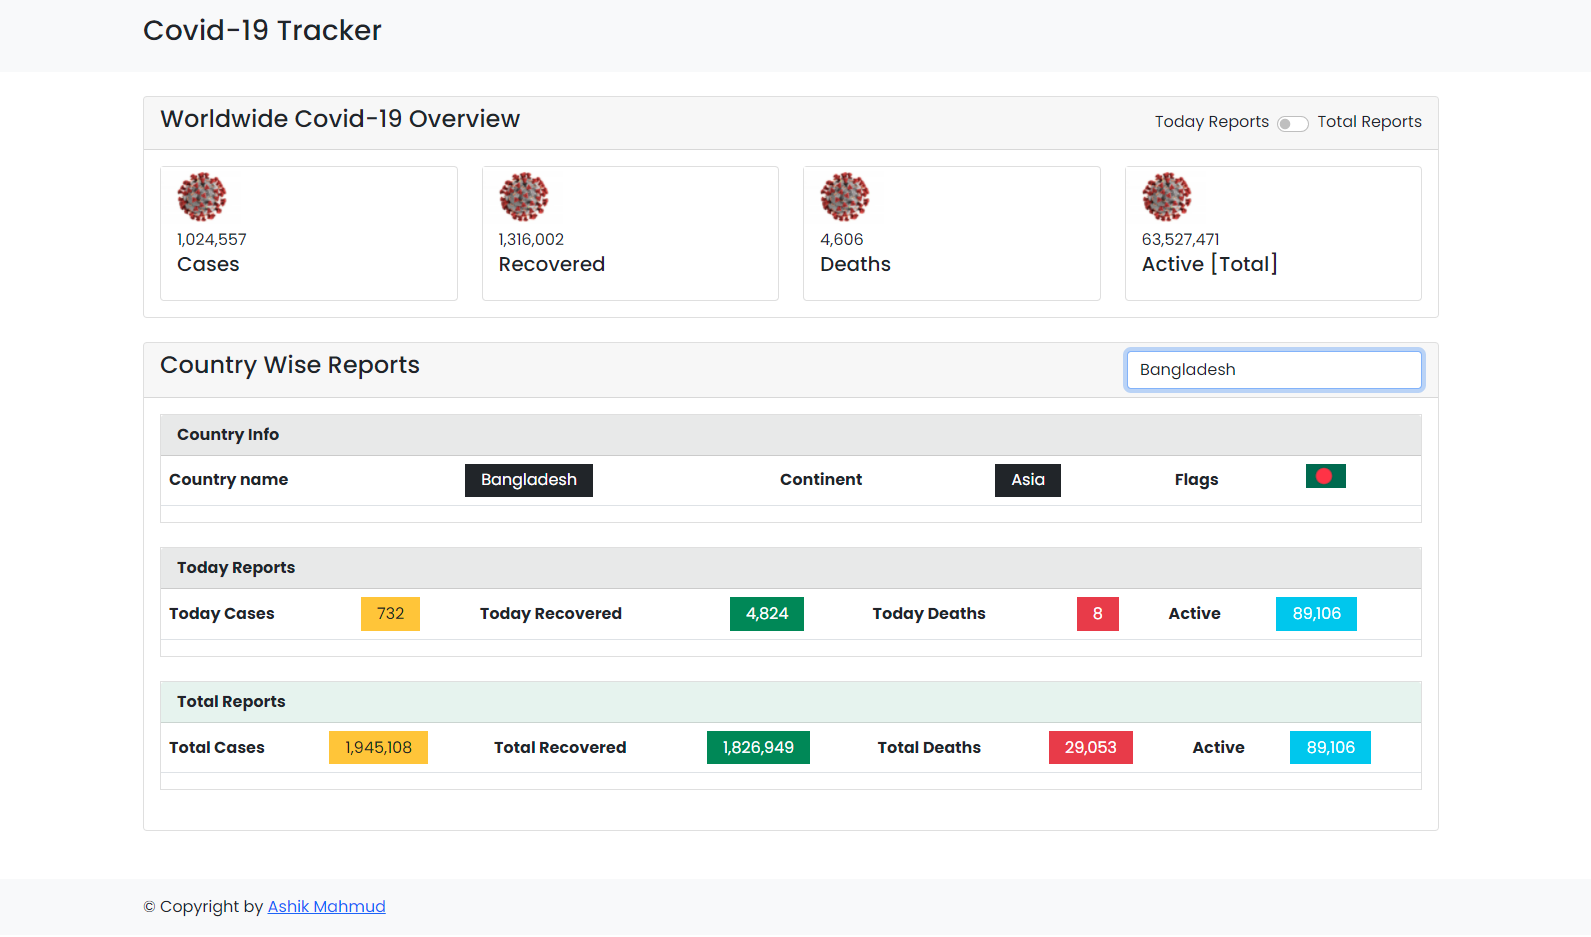
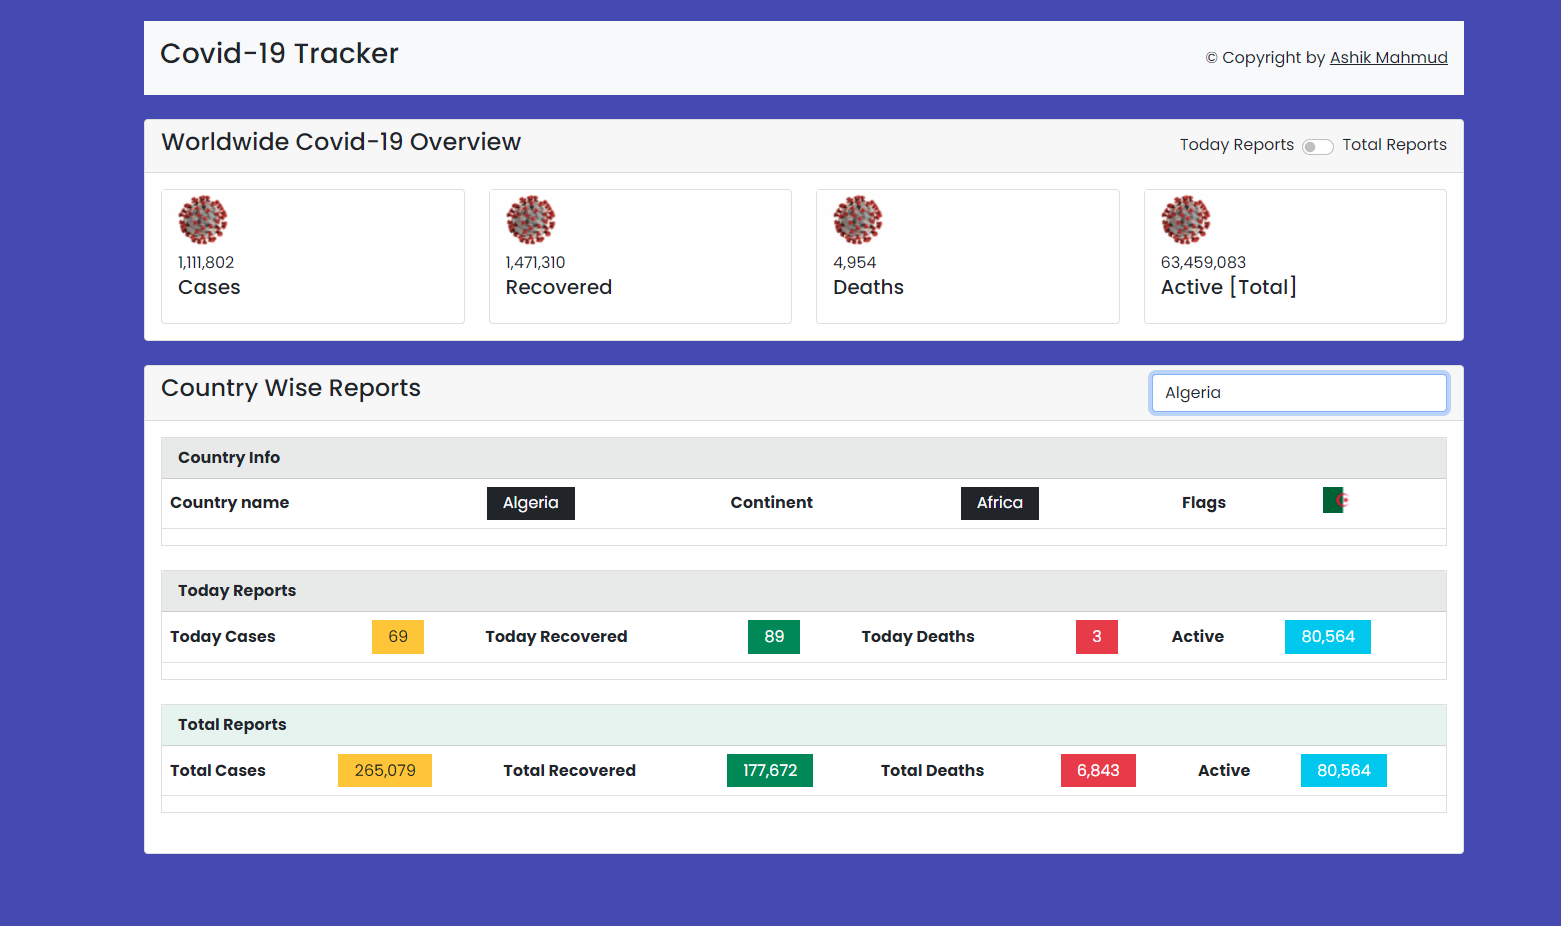
changes UI & demo preview as well

diff --git a/index.html b/index.html
@@ -18,9 +18,10 @@
 <body>
 
     <!-- header part start here  -->
-    <header id="header" class="bg-light p-3">
-        <div class="container">
+    <header id="header" class="mt-4">
+        <div class="container bg-light p-3 d-flex align-items-center justify-content-between">
             <h3>Covid-19 Tracker</h3>
+            <p class="m-0">&copy; Copyright by <a target="_blank" class="text-dark" href="https://dev-ashikmahmud.netlify.app/">Ashik Mahmud</a></p>
         </div>
     </header>
     <!-- header part end here  -->
@@ -28,7 +29,7 @@
     <!-- main part start here  -->
     <main id="main">
         <!-- worldwide covid result section -->
-        <section id="worldwide" class="py-4 container">
+        <section id="worldwide" class="p-0 py-4 container">
             <div class=" card">
                 <div class="card-header d-flex align-items-center justify-content-between">
                     <h4>Worldwide Covid-19 Overview</h4>
@@ -80,8 +81,8 @@
             </div>
         </section>
         <!-- section for country wise Covid-19  -->
-        <section id="country-wise">
-            <div class="container">
+        <section id="country-wise" class="p-0">
+            <div class="container px-0">
                 <div class="card">
                     <div class="card-header  d-flex align-items-center justify-content-between">
                         <h4>Country Wise Reports</h4>
@@ -107,11 +108,7 @@
     <!-- main part end here  -->
 
     <!-- footer part start here  -->
-    <footer id="footer" class="bg-light p-3 mt-5">
-        <div class="container">
-            <p class="m-0">&copy; Copyright by <a href="#">Ashik Mahmud</a></p>
-        </div>
-    </footer>
+    <footer id="footer" ></footer>
     <!-- footer part end here  -->
 
 

diff --git a/assets/css/style.css b/assets/css/style.css
@@ -14,6 +14,7 @@ NOTES: Custom style goes here
 body{
     font-size: 16px;
     font-family: poppins;
+    background: #3f51b5;
 }
 #preload{
     display: none;
